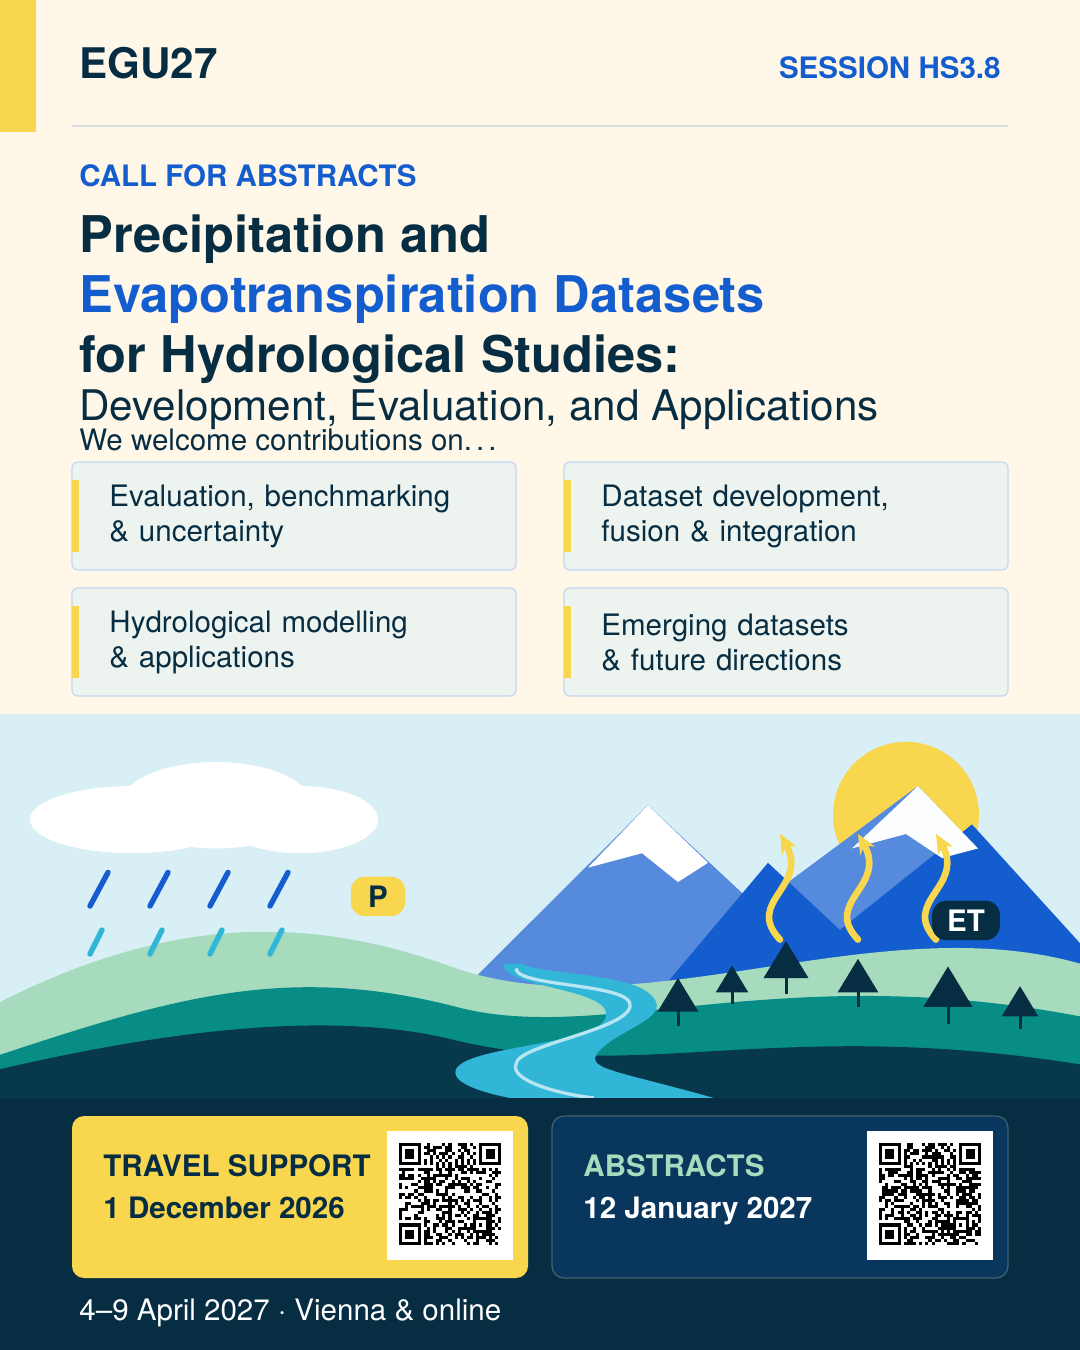
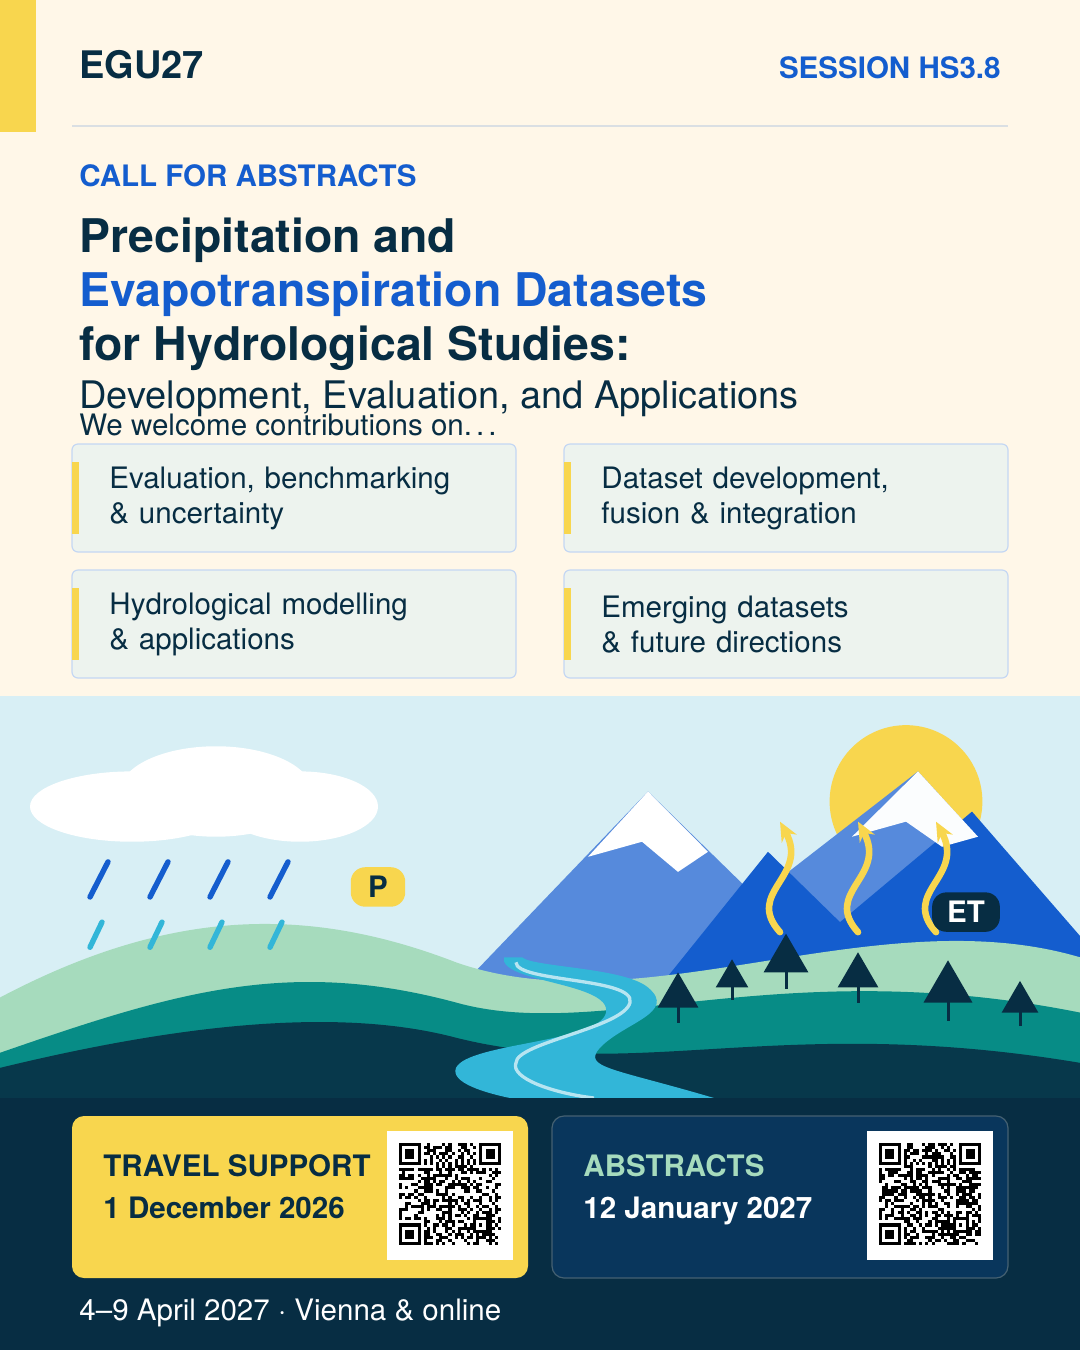
Further reduce Instagram title and introduction spacing
Use 22/18/14 pt typography and tighten the title block while retaining legible separation. Inspected the final render and passed packaging validation.

AI assistance: GPT-6 (Codex).

diff --git a/site/index.html b/site/index.html
@@ -131,7 +131,7 @@
           <div class="section-heading"><div><p class="eyebrow dark-eyebrow">Spread the word</p><h2 id="downloads-title">Campaign downloads</h2></div><p>Social graphics, ready-to-share copy,<br>and editable LaTeX source.</p></div>
           <div class="downloads-grid">
             <article class="download-card">
-              <a class="asset-preview portrait-preview" href="downloads/egu27-hs38-instagram.png" aria-label="View the Instagram graphic"><img src="downloads/egu27-hs38-instagram.png?v=8424e74e3702" width="1080" height="1350" loading="lazy" alt="EGU27 HS3.8 call for abstracts on precipitation and evapotranspiration datasets for hydrological studies. Abstract deadline: 12 January 2027, 13:00 CET."></a>
+              <a class="asset-preview portrait-preview" href="downloads/egu27-hs38-instagram.png" aria-label="View the Instagram graphic"><img src="downloads/egu27-hs38-instagram.png?v=997249e778ad" width="1080" height="1350" loading="lazy" alt="EGU27 HS3.8 call for abstracts on precipitation and evapotranspiration datasets for hydrological studies. Abstract deadline: 12 January 2027, 13:00 CET."></a>
               <div class="download-card-bottom"><div><h3>Instagram</h3><p>Portrait · 1080 × 1350</p></div><div class="download-links"><a href="downloads/egu27-hs38-instagram.png" download>PNG <span aria-hidden="true">↓</span></a><a href="downloads/egu27-hs38-instagram.pdf" download>PDF <span aria-hidden="true">↓</span></a></div></div>
             </article>
             <article class="download-card">

diff --git a/source/latex/README.md b/source/latex/README.md
@@ -14,7 +14,7 @@ merging, update `\SessionCode` and `\SessionURL` in `content.tex` and rebuild.
 Update the web content separately through the repository's documented web workflow.
 
 The single font family is **TeX Gyre Heros**, in regular and bold weights. Each
-layout uses exactly three size tokens: **24 / 20 / 14 TeX pt** for Instagram and
+layout uses exactly three size tokens: **22 / 18 / 14 TeX pt** for Instagram and
 **20 / 18 / 10 TeX pt** for LinkedIn. The headline, context/deadlines and body
 helpers in `campaign.sty` control every text element, including the P and ET labels.
 Change the `\UseCampaignSizes` arguments to adjust these levels; do not add separate

diff --git a/docs/history.md b/docs/history.md
@@ -36,3 +36,5 @@
 - Tightened Instagram deadline panels from 35 to 27 mm height and positioned their headings directly above the full dates; returned the saved space to the illustration.
 
 - Reduced the Instagram title sizes to 24/20 pt while retaining 14 pt body text; tightened the gap to the contribution introduction and moved the topic boxes up to give the landscape more room.
+
+- Further reduced Instagram title typography to 22/18 pt, keeping 14 pt body text and tightening title-to-introduction spacing.
